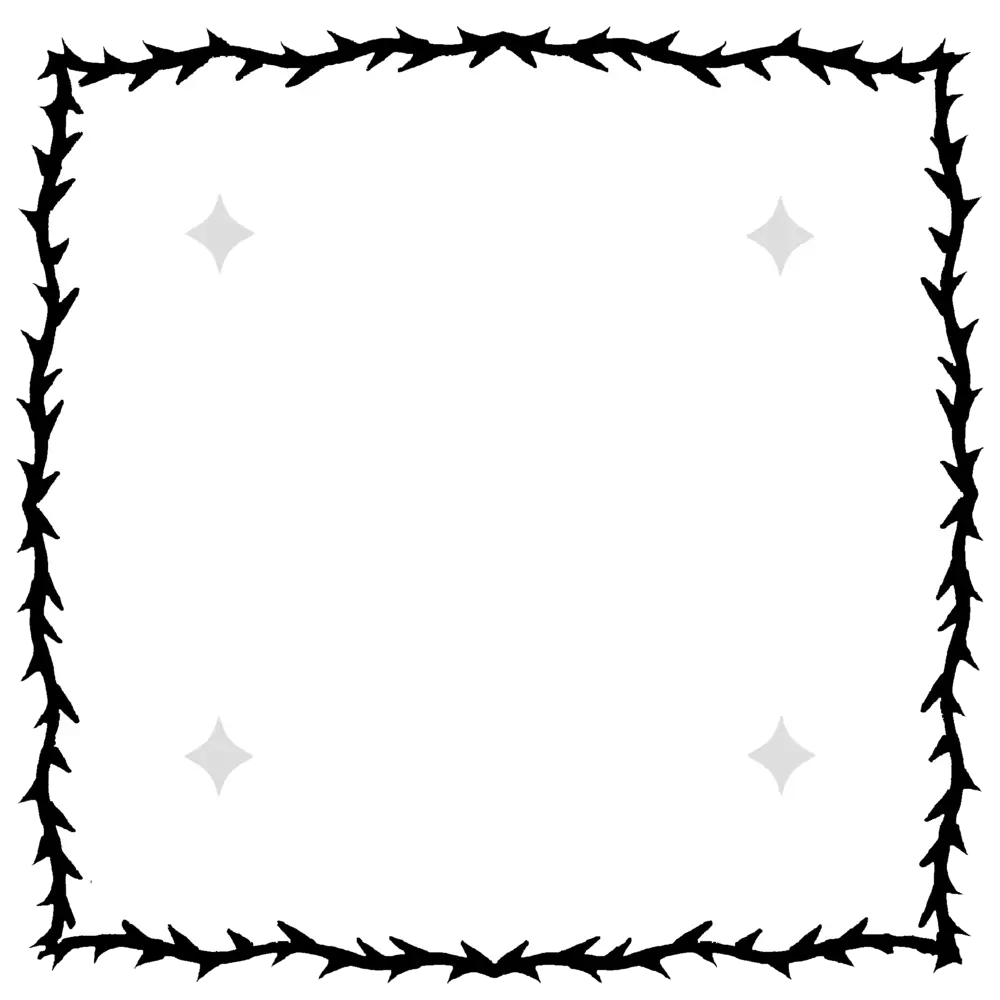
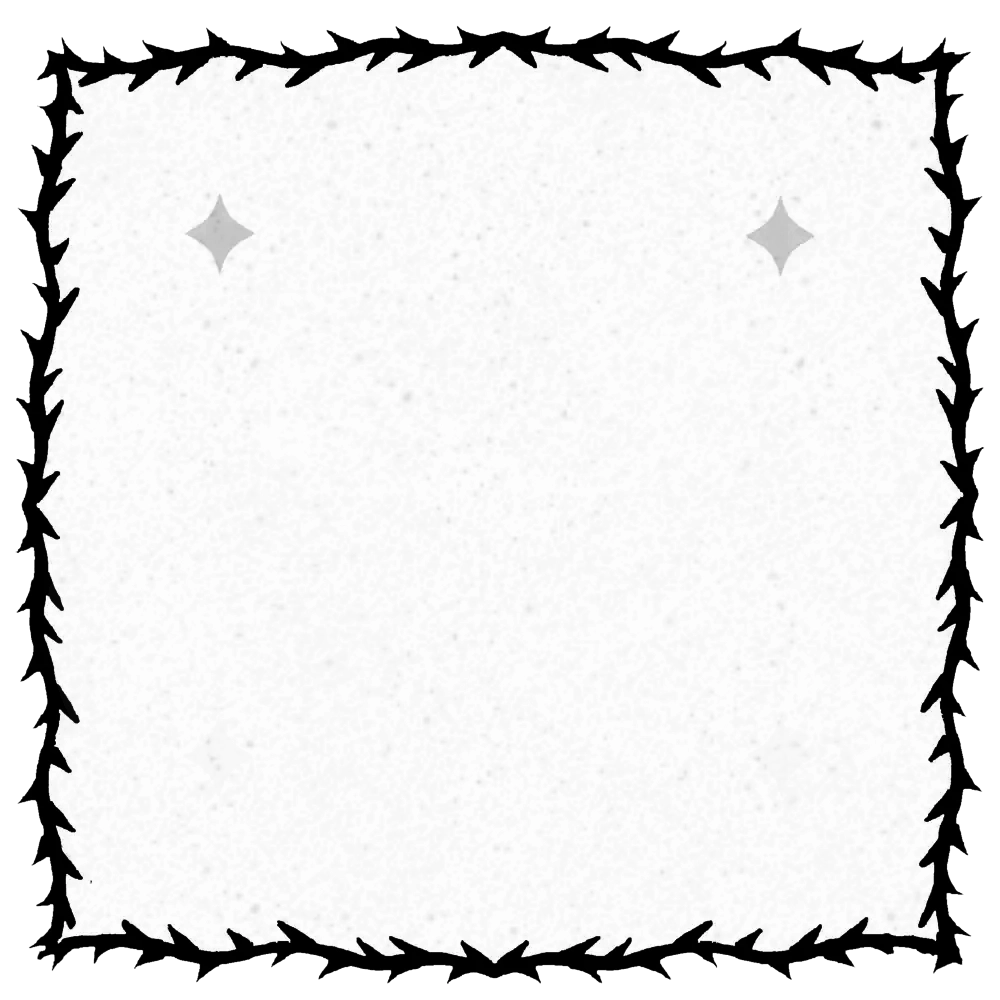
Update textures

diff --git a/src/games/Memory/components/MemoryCard.tsx b/src/games/Memory/components/MemoryCard.tsx
@@ -11,7 +11,7 @@ type MemoryCardProps = Ingredient & {
   pairIsDiscovered: () => boolean;
   onToggleReveal: () => void;
   rotateLeft?: boolean;
-  class?: ClassValue;
+  class?: () => ClassValue;
 };
 
 export function MemoryCard({
@@ -57,7 +57,8 @@ export function MemoryCard({
         !pairIsDiscovered() && !isRevealed() && "hover:scale-105",
         rotateLeft && !pairIsDiscovered() && !isRevealed() && "hover:-rotate-2",
         !rotateLeft && !pairIsDiscovered() && !isRevealed() && "hover:rotate-2",
-        className,
+        pairIsDiscovered() && "cursor-default size-full",
+        className?.(),
       )}
       onClick={() => {
         sounds.playUISound("click1");
@@ -85,12 +86,11 @@ export function MemoryCard({
               class={cn(
                 "absolute-full aspect-square rounded-lg",
                 "-z-20",
-                "dark:filter-[drop-shadow(2px_0_0_var(--color-foreground))_drop-shadow(0_2px_0_var(--color-foreground))_drop-shadow(-2px_0_0_var(--color-foreground))_drop-shadow(0_-2px_0_var(--color-foreground))]",
-                !pairIsDiscovered() && "drop-shadow-xl",
+                !pairIsDiscovered() && "drop-shadow-xl dark:glow-ring",
               )}
               aria-hidden="true"
             />
-            <span class="absolute inset-x-0 bottom-0 h-1/2 flex items-center justify-center text-xl font-bold text-shadow-foreground-muted font-headline tracking-widest">
+            <span class="absolute inset-x-0 bottom-0 h-1/2 flex items-center justify-center text-xl font-bold text-black/90 font-headline tracking-widest">
               {title}
             </span>
           </Show>
@@ -110,7 +110,7 @@ export function MemoryCard({
             aria-hidden="true"
             class={cn(
               "absolute-full aspect-square rounded-lg",
-              "z-10 bg-background opacity-0",
+              "z-10 bg-background bg-texture opacity-0",
               fadeWithBgClass?.(),
             )}
             style={{
@@ -124,8 +124,7 @@ export function MemoryCard({
         src="/memory/card-back.webp"
         class={cn(
           innerCommonClasses,
-          "drop-shadow-xl",
-          "dark:filter-[drop-shadow(2px_0_0_var(--color-foreground))_drop-shadow(0_2px_0_var(--color-foreground))_drop-shadow(-2px_0_0_var(--color-foreground))_drop-shadow(0_-2px_0_var(--color-foreground))]",
+          "drop-shadow-xl dark:glow-ring",
           turnAround() && "rotate-y-180",
         )}
       />

diff --git a/src/games/Memory/components/MemoryGrid.tsx b/src/games/Memory/components/MemoryGrid.tsx
@@ -50,7 +50,11 @@ export function MemoryGrid() {
 
   return (
     <div
-      class="fixed z-0 inset-0 flex h-screen w-screen items-center justify-center perspective-midrange py-[15vh] px-[15vw]"
+      class={cn(
+        "flex h-screen w-screen items-center",
+        "justify-center perspective-midrange py-[15vh] px-[15vw]",
+        "bg-background bg-texture",
+      )}
       inert={!!store.pairMatchId}
     >
       <MemoryDiscoveredPairs />
@@ -63,7 +67,7 @@ export function MemoryGrid() {
                 "starting:opacity-0 starting:translate-y-4 starting:-rotate-5 transition",
                 store.discoveredPairs.includes(card.pairId) &&
                   store.status !== "complete" &&
-                  "bg-background-muted",
+                  "bg-foreground/3",
               )}
               style={{ "transition-delay": `${index() * 10 + 500}ms` }}
               onTransitionStart={(evt) => {
@@ -85,7 +89,7 @@ export function MemoryGrid() {
                   }
                   onToggleReveal={() => onCardRevealToggle(card.ingredient.id)}
                   rotateLeft={card.rotateLeft}
-                  class="w-full"
+                  class={() => "w-full"}
                 />
               </Show>
             </div>

diff --git a/src/games/Memory/components/MemoryLoading.tsx b/src/games/Memory/components/MemoryLoading.tsx
@@ -1,15 +1,21 @@
 import { cn } from "~/utils/cn";
+import { useMemoryStore } from "../store";
 
 type MemoryLoadingProps = {
   percentage: number;
 };
 
 export function MemoryLoading(props: MemoryLoadingProps) {
+  const [store] = useMemoryStore();
   return (
-    <div class={cn("fixed w-screen h-screen inset-0 bg-background-muted z-10")}>
+    <div
+      class={cn(
+        "fixed w-screen h-screen inset-0 bg-background bg-texture z-10",
+      )}
+    >
       <div
         class={cn(
-          "w-screen h-screen relative",
+          "w-screen h-screen relative z-10",
           "flex justify-center items-center font-headline text-9xl",
         )}
       >
@@ -17,9 +23,9 @@ export function MemoryLoading(props: MemoryLoadingProps) {
           aria-hidden="true"
           class={cn(
             "size-full bg-background absolute inset-0 -z-10",
-            "transition-transform origin-left",
+            "transition origin-right",
           )}
-          style={{ scale: `${props.percentage / 100} 1` }}
+          style={{ scale: `${1 - props.percentage / 100} 1` }}
         />
         {props.percentage}%
       </div>

diff --git a/src/app.css b/src/app.css
@@ -25,6 +25,29 @@
   @apply starting:opacity-0 starting:translate-y-4 transition-[opacity,translate] duration-[300ms,1000ms] ease-[ease-in-out,cubic-bezier(.16,.55,0,1)];
 }
 
+@utility bg-texture {
+  background-image: url("/memory/bg-texture-light.png");
+  background-repeat: repeat;
+  background-size: 320px 320px;
+
+  @media (prefers-color-scheme: dark) {
+    background-image: url("/memory/bg-texture-dark.png");
+  }
+
+  &.dark {
+    background-image: url("/memory/bg-texture-dark.png");
+  }
+
+  &.light {
+    background-image: url("/memory/bg-texture-light.png");
+  }
+}
+
+@utility glow-ring {
+  --glow-ring-color: var(--tw-ring-color, var(--color-foreground));
+  @apply filter-[drop-shadow(2px_0_0_var(--glow-ring-color))_drop-shadow(0_2px_0_var(--glow-ring-color))_drop-shadow(-2px_0_0_var(--glow-ring-color))_drop-shadow(0_-2px_0_var(--glow-ring-color))];
+}
+
 @theme {
   --color-background: var(--color-white);
   --color-foreground: var(--color-black);

diff --git a/src/games/Memory/components/MemoryMatchModalCard.tsx b/src/games/Memory/components/MemoryMatchModalCard.tsx
@@ -43,6 +43,7 @@ export function MemoryMatchModalCard(props: MemoryMatchModalCardProps) {
         class={cn(
           "absolute-full w-auto rounded-xl object-cover",
           "-z-10 pointer-events-auto select-none drop-shadow-xl",
+          "dark:glow-ring",
         )}
       />
       <div
@@ -61,6 +62,7 @@ export function MemoryMatchModalCard(props: MemoryMatchModalCardProps) {
         class={cn(
           "absolute bottom-12 left-1/2 -translate-x-1/2 font-headline",
           "text-3xl uppercase font-bold whitespace-nowrap opacity-90",
+          "text-black/90",
         )}
       >
         <span class={cn("inline-blockt tracking-widest", props.titleClass)}>

diff --git a/src/games/Memory/components/MemoryDiscoveredPairs.tsx b/src/games/Memory/components/MemoryDiscoveredPairs.tsx
@@ -77,6 +77,7 @@ export function MemoryDiscoveredPairs() {
                           class={() =>
                             cn(
                               "size-[15vmin] absolute top-1/2 left-1/2 -translate-1/2",
+                              store.status === "complete" && "dark:glow-ring",
                               cardIdx() === 0
                                 ? "translate-x-[calc(-50%-4vmin)] -rotate-4"
                                 : "translate-x-[calc(-50%+4vmin)] translate-y-[calc(-50%+4vmin)]",

diff --git a/src/games/Memory/components/MemoryMatchModal.tsx b/src/games/Memory/components/MemoryMatchModal.tsx
@@ -65,8 +65,8 @@ export function MemoryMatchModal() {
           <dialog
             id="memory-match-modal"
             class={cn(
-              "w-screen h-screen fixed inset-0 z-10 bg-background-muted text-foreground ",
-              "overflow-y-auto flex flex-col",
+              "w-screen h-screen fixed inset-0 z-10 bg-background-muted bg-texture",
+              "overflow-y-auto flex flex-col text-foreground",
             )}
           >
             <div

diff --git a/src/components/ui/Button/Button.tsx b/src/components/ui/Button/Button.tsx
@@ -7,7 +7,7 @@ const buttonVariants = cva(
   cn(
     "rounded cursor-pointer border border-transparent",
     "focus-visible:ring-2 focus-visible:outline-none focus-visible:ring-offset-2",
-    "focus-visible:ring-offset-background",
+    "focus-visible:ring-offset-background focus-visible:ring-foreground",
     "hover:bg-foreground/5",
     styles.btnTransition,
   ),

diff --git a/src/games/Memory/components/MemoryStart.tsx b/src/games/Memory/components/MemoryStart.tsx
@@ -32,8 +32,9 @@ export function MemoryStart() {
   return (
     <div
       class={cn(
-        "w-screen h-screen contain-size p-12 pb-16",
+        "fixed inset-0 w-screen h-screen contain-size p-12 pb-16",
         "flex items-center justify-center flex-col gap-6",
+        "bg-background bg-texture",
       )}
     >
       <div
